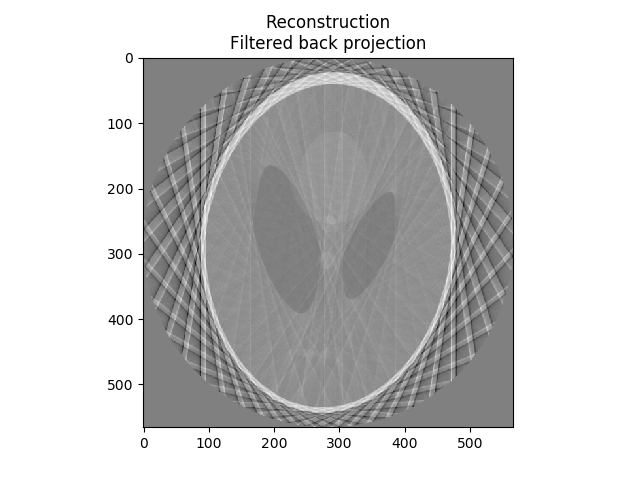
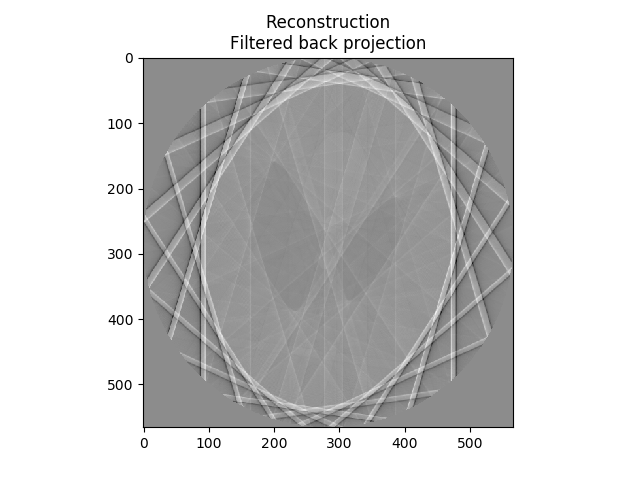
Added buttons/functions for full Radon Transform and all backprojections.

Changed region(s): [[0.2188, 0.125, 0.8125, 0.9062], [0.5625, 0.4375, 0.5938, 0.4688], [0.4688, 0.625, 0.5, 0.6562]]

diff --git a/pythonProject/tkinterRadonProject3.py b/pythonProject/tkinterRadonProject3.py
@@ -38,6 +38,7 @@ class RadonProject_UI:
     # inverse radon variables
     radon_transform_complete = False
     backprojection_matrix = []
+    backprojection_image = None
 
     # reset for radon
     reset_for_radon = False
@@ -72,12 +73,29 @@ class RadonProject_UI:
         getImageButton.pack(side=LEFT, padx=20, pady=20)
 
         projectNameLabel = Label(toolbar, text = "CT Scan / Radon Project", font=myLargeFont, bg="slate gray")
-        projectNameLabel.pack(side=LEFT, padx=100, pady=20)
+        projectNameLabel.pack(side=LEFT, padx=10, pady=20)
 
         quitButton = Button(toolbar, text="Quit", command=quit)
         quitButton.pack(side=RIGHT, padx=20, pady=20)
 
+        fullRadonButton = Button(toolbar, text="Run Full Scan", command=self.fullRadon)
+        fullRadonButton.pack(side=RIGHT, padx=20, pady=20)
+
+        ## ****** Number of Additional Angles between 0 and 180 Widget ******
+
+        buttonCommitNumAngles = Button(toolbar, text="Set Angles", command=self.makeRadonAnglesArray)
+        buttonCommitNumAngles.pack(side=RIGHT, padx=20, pady=20)
+
+        self.number_angles_Entry = Entry(toolbar)
+        self.number_angles_Entry.pack(side=RIGHT, padx=10, pady=20)
+        self.number_angles_Entry.insert(0, '10')
+
+        num_Angles_Label = Label(toolbar, text="Enter number angles from 0° to 180°:", font=myStatusFont, bg="slate gray")
+        num_Angles_Label.pack(side=RIGHT, padx=0, pady=20)
+
         toolbar.pack(side=TOP, fill=X)
+
+
 
         ## ****** Status Bar ******
         self.statusLabel = Label(root, text="Started Project GUI", bd=1, relief=SUNKEN, anchor=W, font=myStatusFont, fg="maroon")
@@ -99,7 +117,7 @@ class RadonProject_UI:
         ### ****** Step Radon Transform Button ******
         step_radon_Button = Button(self.mainframe, text="Transform", bd=0, highlightthickness=0, relief='ridge',
                                    command=self.stepRadon)
-        step_radon_Button.grid(row=0, column=5, columnspan=1, rowspan=4, sticky=W, padx=0, pady=25)
+        step_radon_Button.grid(row=0, column=5, columnspan=1, rowspan=4, sticky=W, padx=0, pady=0)
 
         buttonImage = cv2.imread("greenArrow.png")
         buttonImageDisplay = self.makeDisplayImage(buttonImage, (40, 40))
@@ -109,7 +127,7 @@ class RadonProject_UI:
 
         ## ****** Radon 1D Image ******
         self.radon_1D_ImageLabel = Label(self.mainframe)
-        self.radon_1D_ImageLabel.grid(row=0, column=6, columnspan=4, rowspan=4, sticky=W, padx=50, pady=30)
+        self.radon_1D_ImageLabel.grid(row=0, column=6, columnspan=4, rowspan=3, sticky=W, padx=50, pady=30)
 
         ## ****** Radon 2D Image ******
         self.radon_2D_ImageLabel = Label(self.mainframe)
@@ -117,15 +135,15 @@ class RadonProject_UI:
 
         ## ****** Scikit Radon/Iradon Image ******
         self.scikit_radon_iradon_ImageLabel = Label(self.mainframe)
-        self.scikit_radon_iradon_ImageLabel.grid(row=6, column=10, columnspan=4, rowspan=4, sticky=W, padx=50, pady=30)
+        self.scikit_radon_iradon_ImageLabel.grid(row=5, column=10, columnspan=4, rowspan=4, sticky=W, padx=50, pady=30)
 
         ## ****** Backprojection 2D Image ******
         self.backprojection_2D_ImageLabel = Label(self.mainframe)
-        self.backprojection_2D_ImageLabel.grid(row=6, column=6, columnspan=4, rowspan=4, sticky=W, padx=50, pady=30)
+        self.backprojection_2D_ImageLabel.grid(row=5, column=6, columnspan=4, rowspan=4, sticky=W, padx=50, pady=30)
 
         ## ****** Backprojection Difference Image ******
         self.backprojection_Difference_ImageLabel = Label(self.mainframe)
-        self.backprojection_Difference_ImageLabel.grid(row=6, column=1, columnspan=4, rowspan=4, sticky=W, padx=50, pady=30)
+        self.backprojection_Difference_ImageLabel.grid(row=5, column=1, columnspan=4, rowspan=4, sticky=W, padx=30, pady=30)
 
 
 
@@ -155,21 +173,12 @@ class RadonProject_UI:
         self.backprojection_Difference_ImageLabel.configure(image=empty_image_display)
         self.backprojection_Difference_ImageLabel.image = empty_image_display
 
-        ## ****** Number of Additional Angles between 0 and 180 Widget ******
-        num_Angles_Label = Label(self.mainframe, text="Enter the number of additional angles between 0° and 180°:", font=mySmallFont, bg="gainsboro")
-        num_Angles_Label.grid(row=4, column=0, columnspan=2, rowspan=1, sticky=W, padx=10, pady=10)
 
-        self.number_angles_Entry = Entry(self.mainframe)
-        self.number_angles_Entry.grid(row=5, column=1, columnspan=1, rowspan=1, sticky=W)
-        self.number_angles_Entry.insert(0, '10')
-
-        buttonCommitNumAngles = Button(self.mainframe, text="Commit", command=self.makeRadonAnglesArray)
-        buttonCommitNumAngles.grid(row=5, column=2, columnspan=1, rowspan=1, sticky=W)
 
         ### ****** Step IRadon Transform Button ******
         step_iradon_Button = Button(self.mainframe, text="Transform", bd=0, highlightthickness=0, relief='ridge',
                                    command=self.stepBackprojection)
-        step_iradon_Button.grid(row=4, column=8, columnspan=2, rowspan=2, sticky=W, padx=0, pady=0)
+        step_iradon_Button.grid(row=3, column=8, columnspan=1, rowspan=1, sticky=W, padx=0, pady=0)
 
         buttonImageDown = cv2.imread("greenArrowDown.png")
         buttonImageDownDisplay = self.makeDisplayImage(buttonImageDown, (40, 40))
@@ -182,8 +191,12 @@ class RadonProject_UI:
         differenceButton = Button(toolbarBottom, text="Difference: Input - Backprojection", command=self.doNothing)
         differenceButton.pack(side=LEFT, padx=20, pady=20)
 
-        backprojectorButton = Button(toolbarBottom, text="Backproject Full", command=self.doNothing)
-        backprojectorButton.pack(side=LEFT, padx=20, pady=20)
+        postProcessBackprojectionButton = Button(toolbarBottom, text="Post-Process Backprojection",
+                                                 command=self.postProcessBackprojection)
+        postProcessBackprojectionButton.pack(side=LEFT, padx=20, pady=20)
+
+        full_backprojection_Button = Button(toolbarBottom, text="All Backprojections", command=self.allBackprojections)
+        full_backprojection_Button.pack(side=LEFT, padx=20, pady=20)
 
         backprojectorSKIButton = Button(toolbarBottom, text="IRadon Scikit Full", command=self.getIRadonSciKit)
         backprojectorSKIButton.pack(side=RIGHT, padx=20, pady=20)
@@ -287,7 +300,40 @@ class RadonProject_UI:
 
         self.makeRightSideArrows(self.radon_angles_array[self.current_angle_index - 1])
 
-    # stepwise Radon
+    # full Radon 2D
+
+    def fullRadon(self):
+        """ Step Radon """
+        if self.inputImage is None:
+            self.setStatus("Please choose an input image.")
+            return
+
+        if self.radon_transform_complete:
+            self.setStatus("Radon Transform already complete.")
+            return
+
+        CTScanner = RadonTransform(self.inputImage, self.radon_angles_array, self.current_radon_transform)
+
+        CTScanner.get1DSinogram(len(self.radon_angles_array) - 1)
+        sinogram1DImage= cv2.imread("scanner_plot.png")
+        sinogram1DImage = cv2.cvtColor(sinogram1DImage, cv2.COLOR_RGB2GRAY)
+
+        self.current_radon_transform = CTScanner.full_Radon2D()
+        radon_transf_image = CTScanner.getRadonImage()
+
+        self.displayImageOnLabel(self.radon_1D_ImageLabel, sinogram1DImage, self.IMAGE_SIZE_SMALL)
+        self.displayImageOnLabel(self.radon_2D_ImageLabel, radon_transf_image, self.IMAGE_SIZE_LONG)
+
+        self.radon_transform_complete = True
+        self.reset_for_radon = True
+        self.current_angle_index = 0
+
+        statusString = "Ran Radon for all angles."
+        self.setStatus(statusString)
+
+        self.makeRightSideArrows(self.radon_angles_array[self.current_angle_index - 1])
+
+    # stepwise Backprojection
 
     def stepBackprojection(self):
         """ Step Backprojector """
@@ -306,8 +352,8 @@ class RadonProject_UI:
         Backprojector = BackprojectRadon(self.inputImage, self.radon_angles_array,
                                           self.current_radon_transform, self.backProjectionMatrix)
         self.backProjectionMatrix = Backprojector.stepwiseBackprojection(self.current_angle_index)
-        backprojection_image = Backprojector.getBackprojectionImage()
-        self.displayImageOnLabel(self.backprojection_2D_ImageLabel, backprojection_image, self.IMAGE_SIZE)
+        self.backprojection_image = Backprojector.getBackprojectionImage()
+        self.displayImageOnLabel(self.backprojection_2D_ImageLabel, self.backprojection_image, self.IMAGE_SIZE)
 
         self.current_angle_index = (self.current_angle_index + 1) % len(self.radon_angles_array)
 
@@ -315,6 +361,48 @@ class RadonProject_UI:
         self.setStatus(statusString)
 
         self.makeRightSideArrows(self.radon_angles_array[self.current_angle_index - 1])
+
+    # all Backprojections
+
+    def allBackprojections(self):
+        """ Step Backprojector """
+        if self.inputImage is None:
+            self.setStatus("Please choose an input image.")
+            return
+
+        if not self.radon_transform_complete:
+            self.setStatus("Cannot backproject. Radon transform not complete.")
+            return
+
+        if self.current_angle_index == 0:
+            (N, M) = self.inputImage.shape
+            self.backProjectionMatrix = np.zeros((N * 2, M * 2), np.float32)
+
+        Backprojector = BackprojectRadon(self.inputImage, self.radon_angles_array,
+                                          self.current_radon_transform, self.backProjectionMatrix)
+        self.backProjectionMatrix = Backprojector.fullBackprojection()
+        self.backprojection_image = Backprojector.getBackprojectionImage()
+        self.displayImageOnLabel(self.backprojection_2D_ImageLabel, self.backprojection_image, self.IMAGE_SIZE)
+
+        self.current_angle_index = 0
+
+        statusString = "Ran backprojections for all angles."
+        self.setStatus(statusString)
+
+        self.makeRightSideArrows(self.radon_angles_array[self.current_angle_index - 1])
+
+
+    def postProcessBackprojection(self):
+        """ Step Backprojector """
+        if self.backprojection_image is None:
+            self.setStatus("Cannot post-process image. No backprojections are complete.")
+        Backprojector = BackprojectRadon(self.inputImage, self.radon_angles_array,
+                                          self.current_radon_transform, self.backProjectionMatrix)
+        postprocess_backprojection_image = Backprojector.getPostProcessedBackprojectionImage(self.backprojection_image)
+        self.displayImageOnLabel(self.backprojection_2D_ImageLabel, postprocess_backprojection_image, self.IMAGE_SIZE)
+
+        statusString = "Post-processed backprojection image."
+        self.setStatus(statusString)
 
 
     # Scikit Radon

diff --git a/pythonProject/BackprojectRadon.py b/pythonProject/BackprojectRadon.py
@@ -19,17 +19,39 @@ class BackprojectRadon:
         (NR, AR) = self.radonMatrix.shape
         radonLineValues = [0] * NR
 
-        rotated_backProjection = self.rotateMatrix(self.backProjectionMatrix, angle)
+        rotated_backProjection = self.rotateMatrix(self.backProjectionMatrix, angle*-1)
         (N, M) = rotated_backProjection.shape
-        print("rotated_backProjection.shape: ", rotated_backProjection.shape)
+        #print("rotated_backProjection.shape: ", rotated_backProjection.shape)
         for row in range(N):
             for col in range(len(radonLineValues)):
                 colShift = round(M / 4)
                 currentValue = rotated_backProjection[row][col + colShift]
                 backprojectionValue = self.radonMatrix[col, angleIndex]
-                rotated_backProjection[row][(M-1) - (col + colShift)] = currentValue + backprojectionValue
+                rotated_backProjection[row][(col + colShift)] = currentValue + backprojectionValue
 
-        self.backProjectionMatrix = self.rotateMatrix(rotated_backProjection, angle*-1)
+        self.backProjectionMatrix = self.rotateMatrix(rotated_backProjection, angle)
+        return self.backProjectionMatrix
+
+    # full backprojection of radon
+    def fullBackprojection(self):
+        """ Do one pass of radon , return list of 1D values """
+        (NR, AR) = self.radonMatrix.shape
+        angle_index = 0
+        for angle in self.anglesArray:
+            angle = self.anglesArray[angle_index]
+            radonLineValues = [0] * NR
+
+            rotated_backProjection = self.rotateMatrix(self.backProjectionMatrix, angle*-1)
+            (N, M) = rotated_backProjection.shape
+            for row in range(N):
+                for col in range(len(radonLineValues)):
+                    colShift = round(M / 4)
+                    currentValue = rotated_backProjection[row][col + colShift]
+                    backprojectionValue = self.radonMatrix[col, angle_index]
+                    rotated_backProjection[row][(col + colShift)] = currentValue + backprojectionValue
+            angle_index += 1
+            self.backProjectionMatrix = self.rotateMatrix(rotated_backProjection, angle)
+
         return self.backProjectionMatrix
 
 

diff --git a/pythonProject/RadonTransform.py b/pythonProject/RadonTransform.py
@@ -40,10 +40,28 @@ class RadonTransform:
         angle = self.radon_angles_array[angleIndex]
         values = CT.onePassRadon(angle)
         valueIndex = 0
+        valueCount = len(values)
         for value in values:
-            self.radonOutput[valueIndex][angleIndex] = values[valueIndex]
+            self.radonOutput[valueCount - valueIndex - 1][angleIndex] = values[valueIndex]
             valueIndex += 1
-        print("The size of the current 2D Radon Transform: ", self.radonOutput.shape)
+        #print("The size of the current 2D Radon Transform: ", self.radonOutput.shape)
+        return self.radonOutput
+
+    # full 2D Radon
+
+    def full_Radon2D(self):
+        """ Do one pass of radon , return list of 1D values """
+        angle_index = 0
+        CT = CTScan(self.inputImage)
+        for angle in self.radon_angles_array:
+            values = CT.onePassRadon(angle)
+            valueIndex = 0
+            valueCount = len(values)
+            for value in values:
+                self.radonOutput[valueCount - valueIndex - 1][angle_index] = values[valueIndex]
+                valueIndex += 1
+            angle_index += 1
+        #print("Ran full radon2D. The size of the current 2D Radon Transform: ", self.radonOutput.shape)
         return self.radonOutput
 
 
